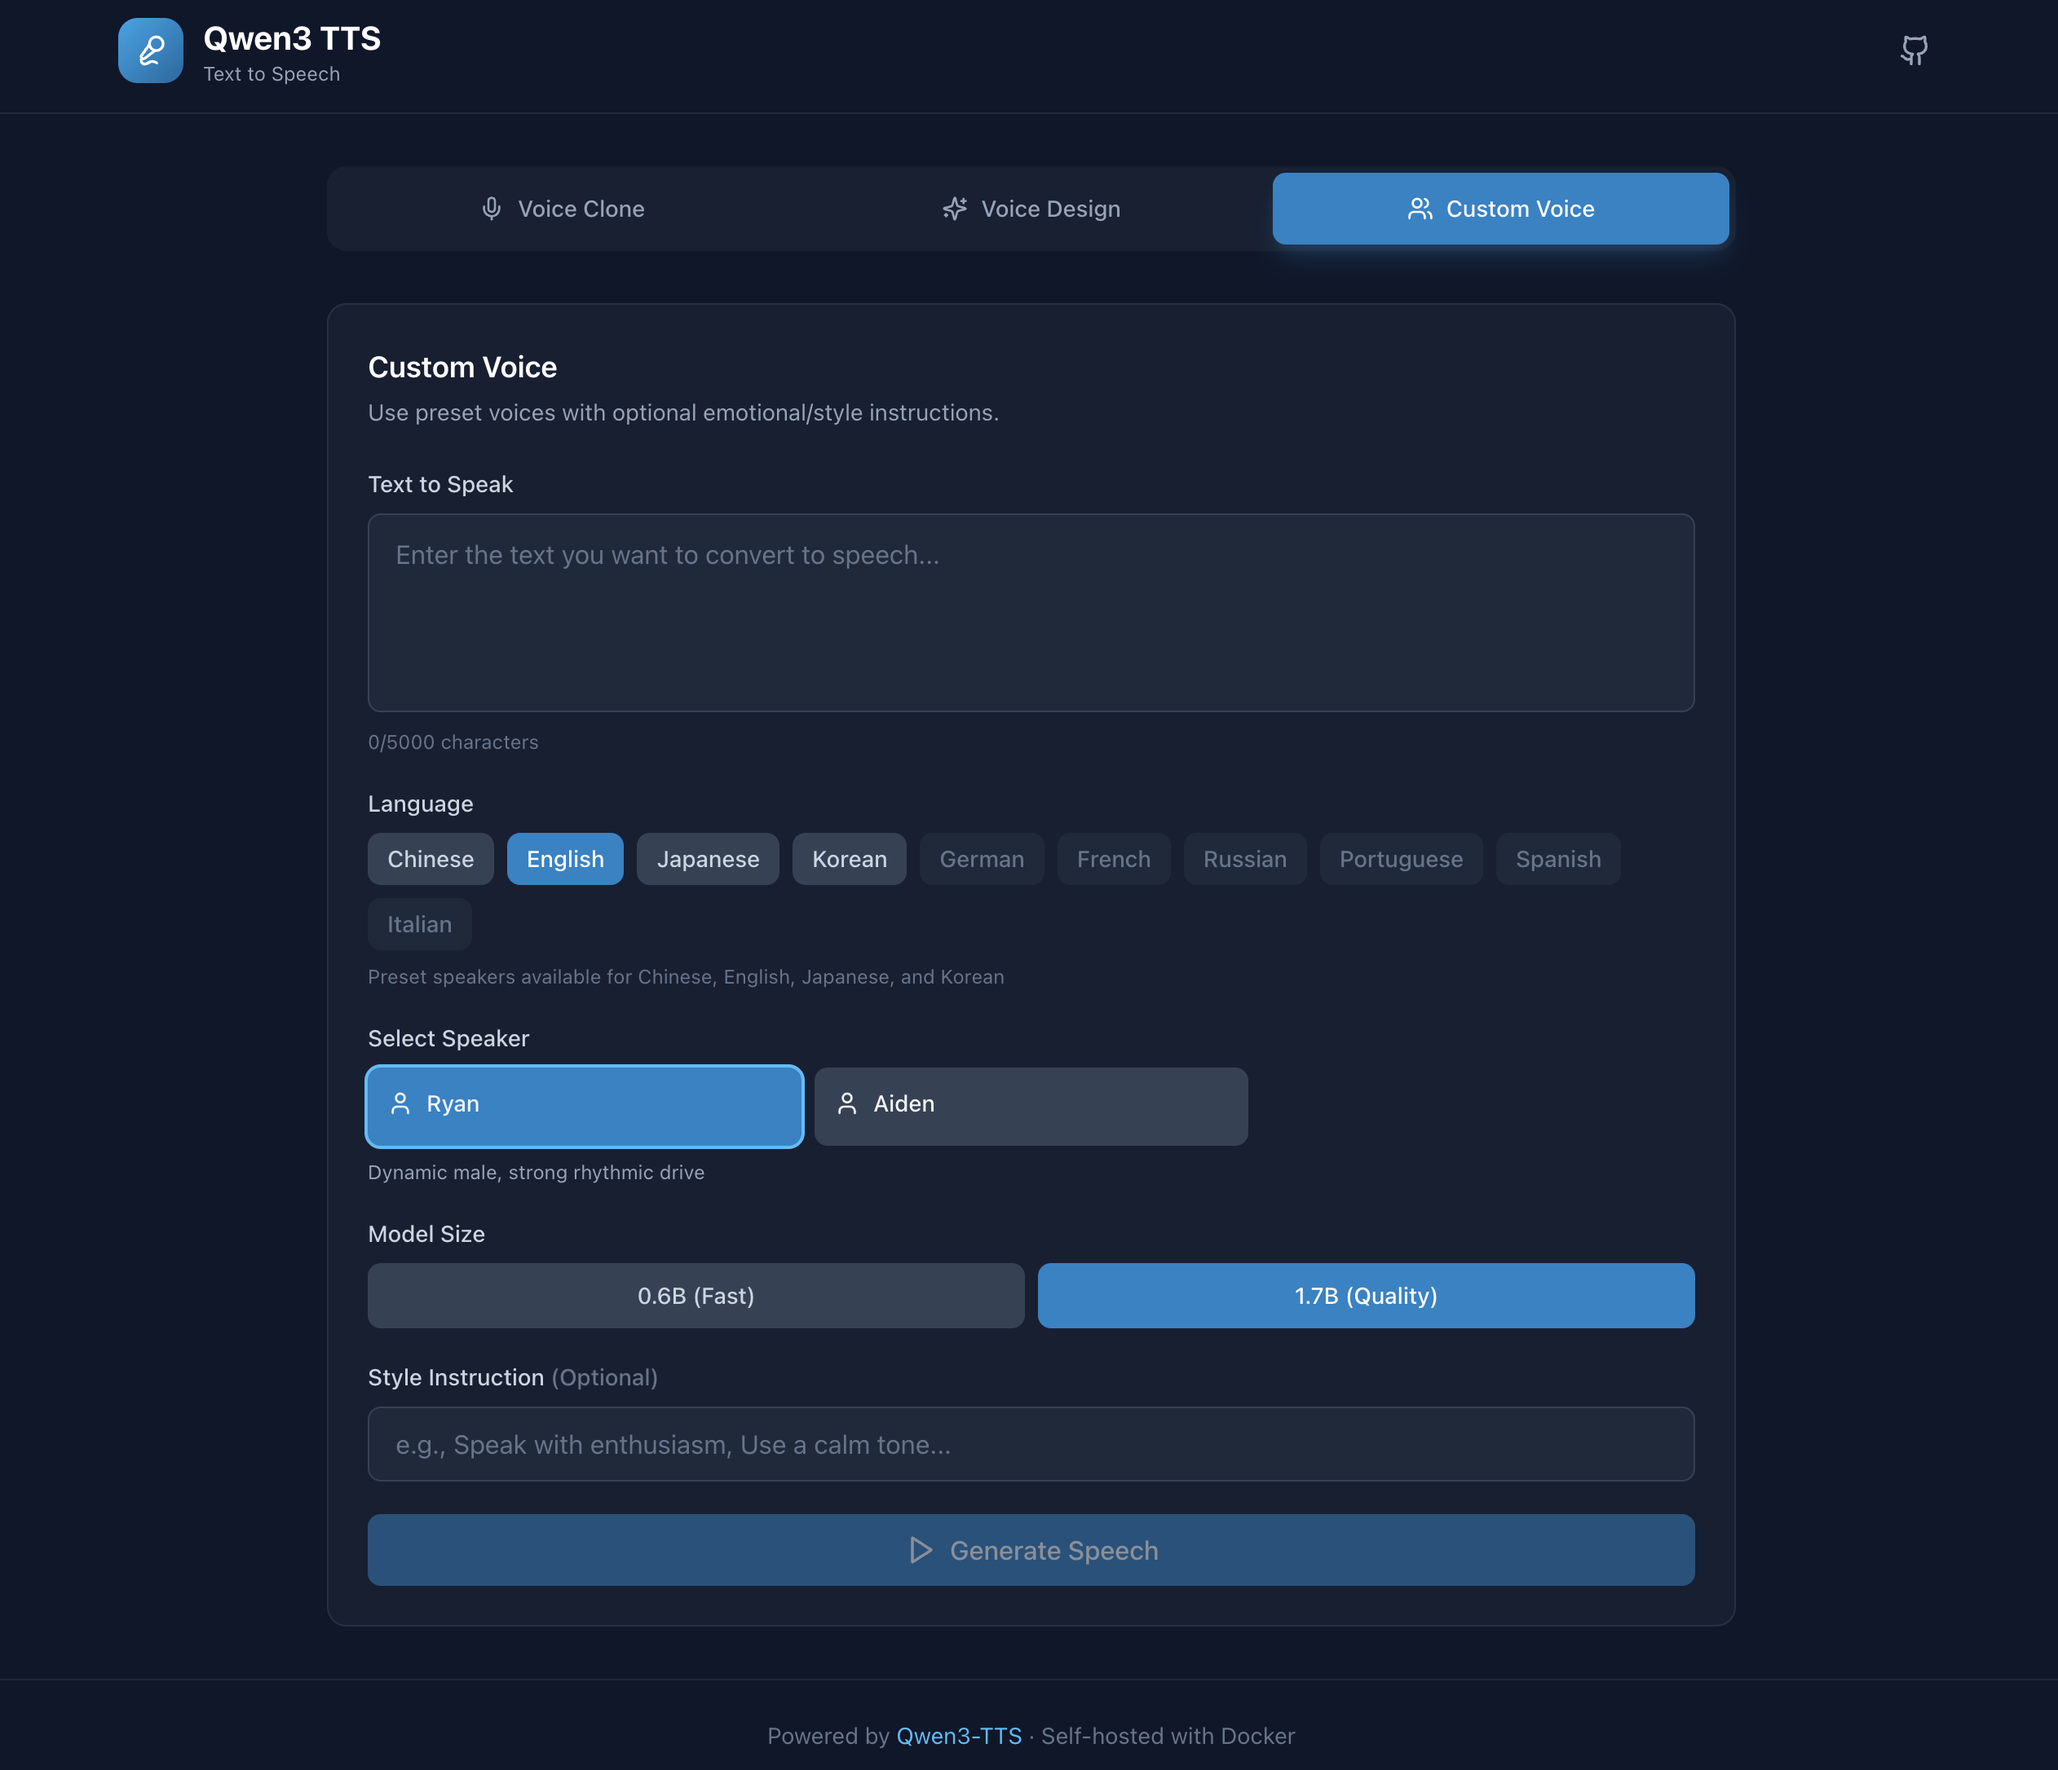
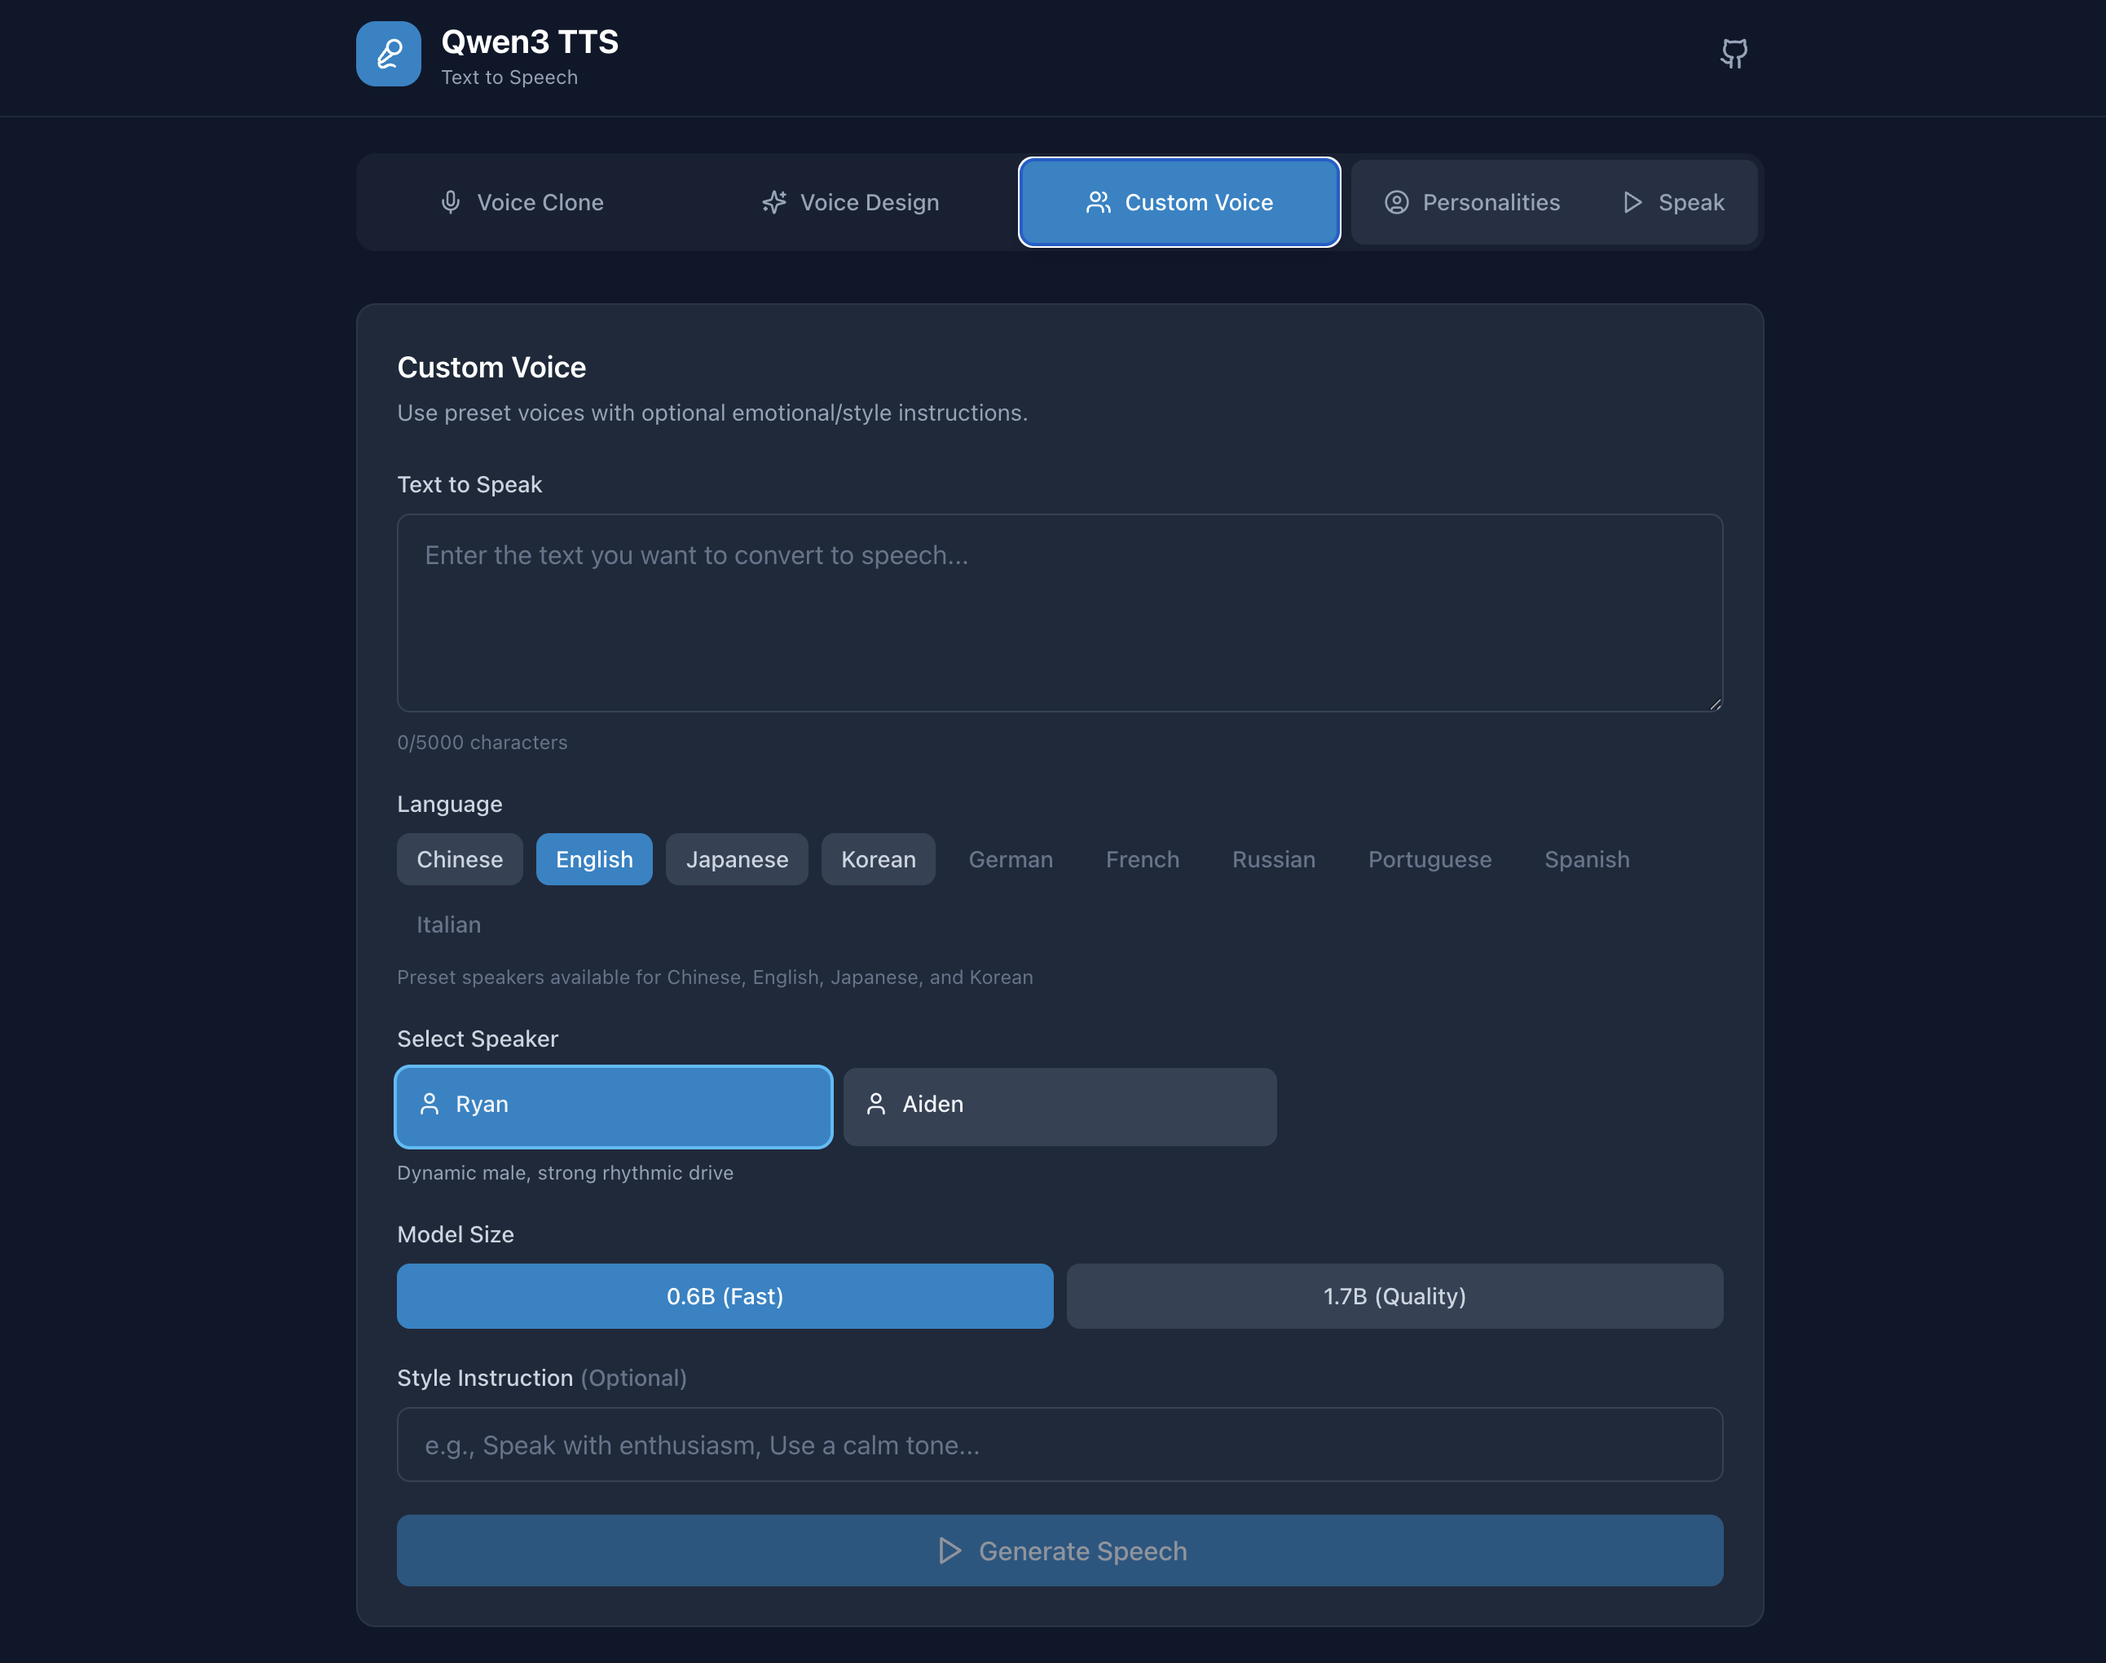
update screenshots

diff --git a/README.md b/README.md
@@ -22,20 +22,32 @@ A simple, lightweight, self-hosted, Docker-deployable web interface for [Qwen3-T
 <table>
   <tr>
     <td align="center">
-      <img src="screenshots/screenshot-voice-clone.png" width="100%" alt="Voice Clone Mode"/>
+      <img src="screenshots/screenshot-voice-clone.png" width="75%" alt="Voice Clone Mode"/>
       <br/><b>Voice Clone</b> - Clone any voice from reference audio
     </td>
   </tr>
   <tr>
     <td align="center">
-      <img src="screenshots/screenshot-voice-design.png" width="100%" alt="Voice Design Mode"/>
+      <img src="screenshots/screenshot-voice-design.png" width="75%" alt="Voice Design Mode"/>
       <br/><b>Voice Design</b> - Create voices from text descriptions
     </td>
   </tr>
   <tr>
     <td align="center">
-      <img src="screenshots/screenshot-custom-voice.png" width="100%" alt="Custom Voice Mode"/>
+      <img src="screenshots/screenshot-custom-voice.png" width="75%" alt="Custom Voice Mode"/>
       <br/><b>Custom Voice</b> - Use preset speakers with emotional control
+    </td>
+  </tr>
+  <tr>
+    <td align="center">
+      <img src="screenshots/screenshot-personalities.png" width="75%" alt="Personalities"/>
+      <br/><b>Personalities</b> - Store personality audio snippets
+    </td>
+  </tr>
+  <tr>
+    <td align="center">
+      <img src="screenshots/screenshot-personality-speak.png" width="75%" alt="Personality Speak"/>
+      <br/><b>Personality Speak</b> - User personalities for fast cloning
     </td>
   </tr>
 </table>
